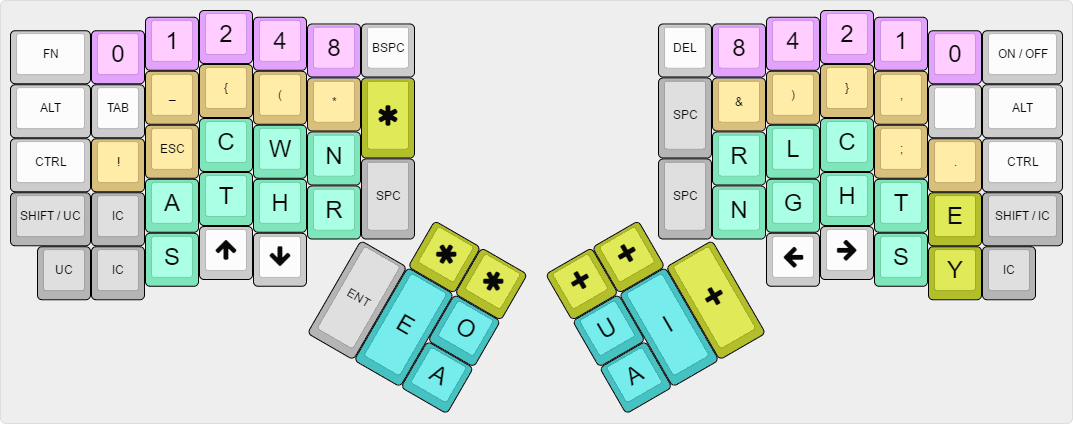
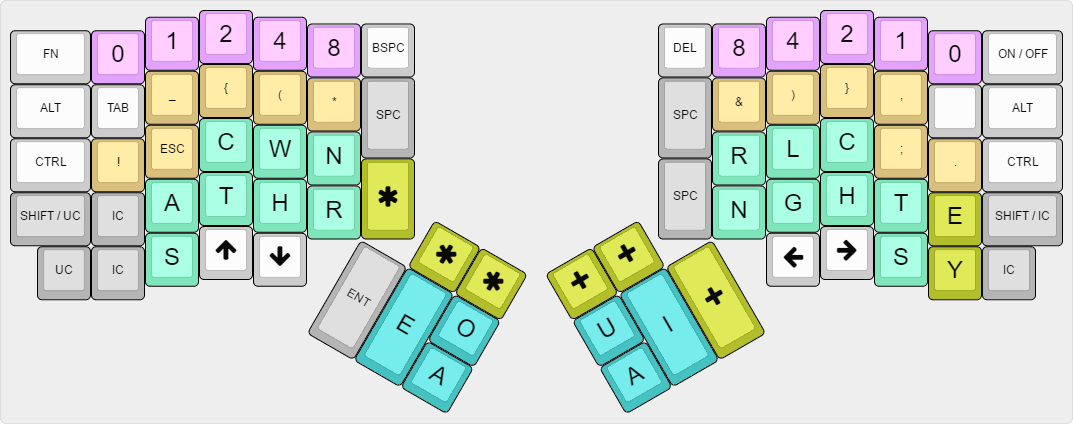
Star and space for the left hand inverted

Changed region(s): [[0.3383, 0.184, 0.3998, 0.5825]]

diff --git a/keyboard/ergodox_ez/keymaps/fromtonrouge/keymap.c b/keyboard/ergodox_ez/keymaps/fromtonrouge/keymap.c
@@ -241,9 +241,9 @@ const uint32_t PROGMEM g_steno_keymap[2][MATRIX_ROWS][MATRIX_COLS] = {
 KEYMAP(
                 // Left hand
                 0,      NL_N0,      NL_B0,      NL_B1,      NL_B2,      NL_B3,        0,
-                0,      0,          USRL_2,     USRL_3,     USRL_4,     USRL_5,       SC_STAR,
+                0,      0,          USRL_2,     USRL_3,     USRL_4,     USRL_5,       S_SPC,
                 0,      USRL_0,     USRL_1,     L_C,        L_W,        L_N,        
-                C_UC,   C_IC,       L_A,        L_T,        L_H,        L_R,          S_SPC,
+                C_UC,   C_IC,       L_A,        L_T,        L_H,        L_R,          SC_STAR,
                 C_UC,   C_IC,       L_S,        0,          0,
                                                                                            SC_STAR, SC_STAR,
                                                                                                     T_O,
